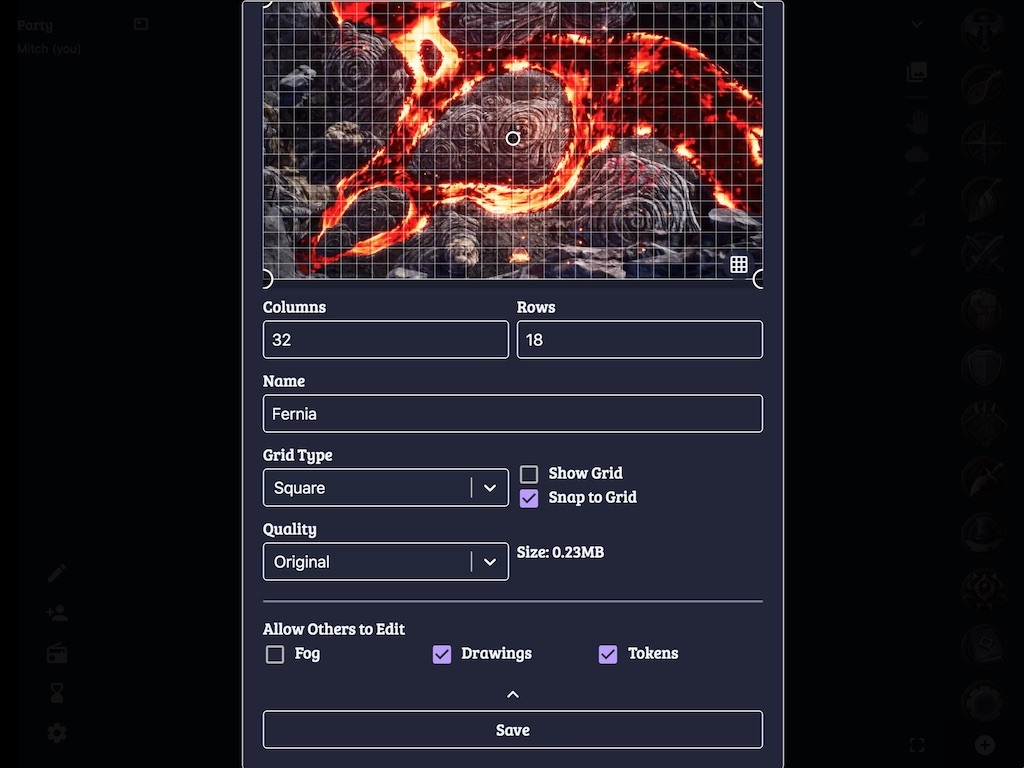
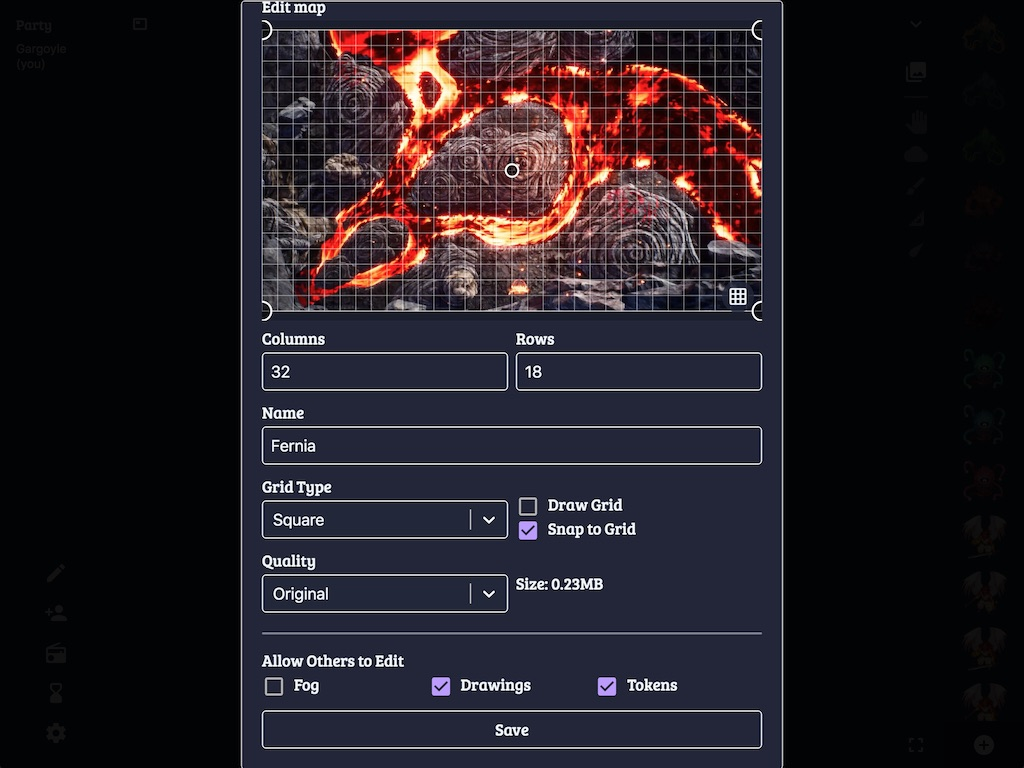
Updated map docs with draw grid name

Changed region(s): [[0.2188, 0.0, 0.7812, 1.0], [0.4688, 0.9375, 0.5312, 0.9688]]

diff --git a/src/docs/howTo/sharingMaps.md b/src/docs/howTo/sharingMaps.md
@@ -50,7 +50,7 @@ To get access to these settings, click the Show More button under the Name input
 A brief summary of these settings is listed below.
 
 - Grid Type: Change the type of grid to use for the map. Currently only the Square type is supported however Hex will be added in a future release.
-- Show Grid: When enabled Owlbear Rodeo will draw a grid on top of your map, this is useful if a custom map you have uploaded doesn't include a grid.
+- Draw Grid: When enabled Owlbear Rodeo will draw a grid on top of your map, this is useful if a custom map you have uploaded doesn't include a grid.
 - Snap to Grid: When enabled tokens, drawing, fog and measurements will attempt to snap to the grid.
 - Quality: When uploading a map Owlbear Rodeo will automatically generate various quality options, selecting a lower quality may help speed up map sending in resource constrained environments.
 - Allow others to edit: These properties control what other party members can edit when viewing your map.
